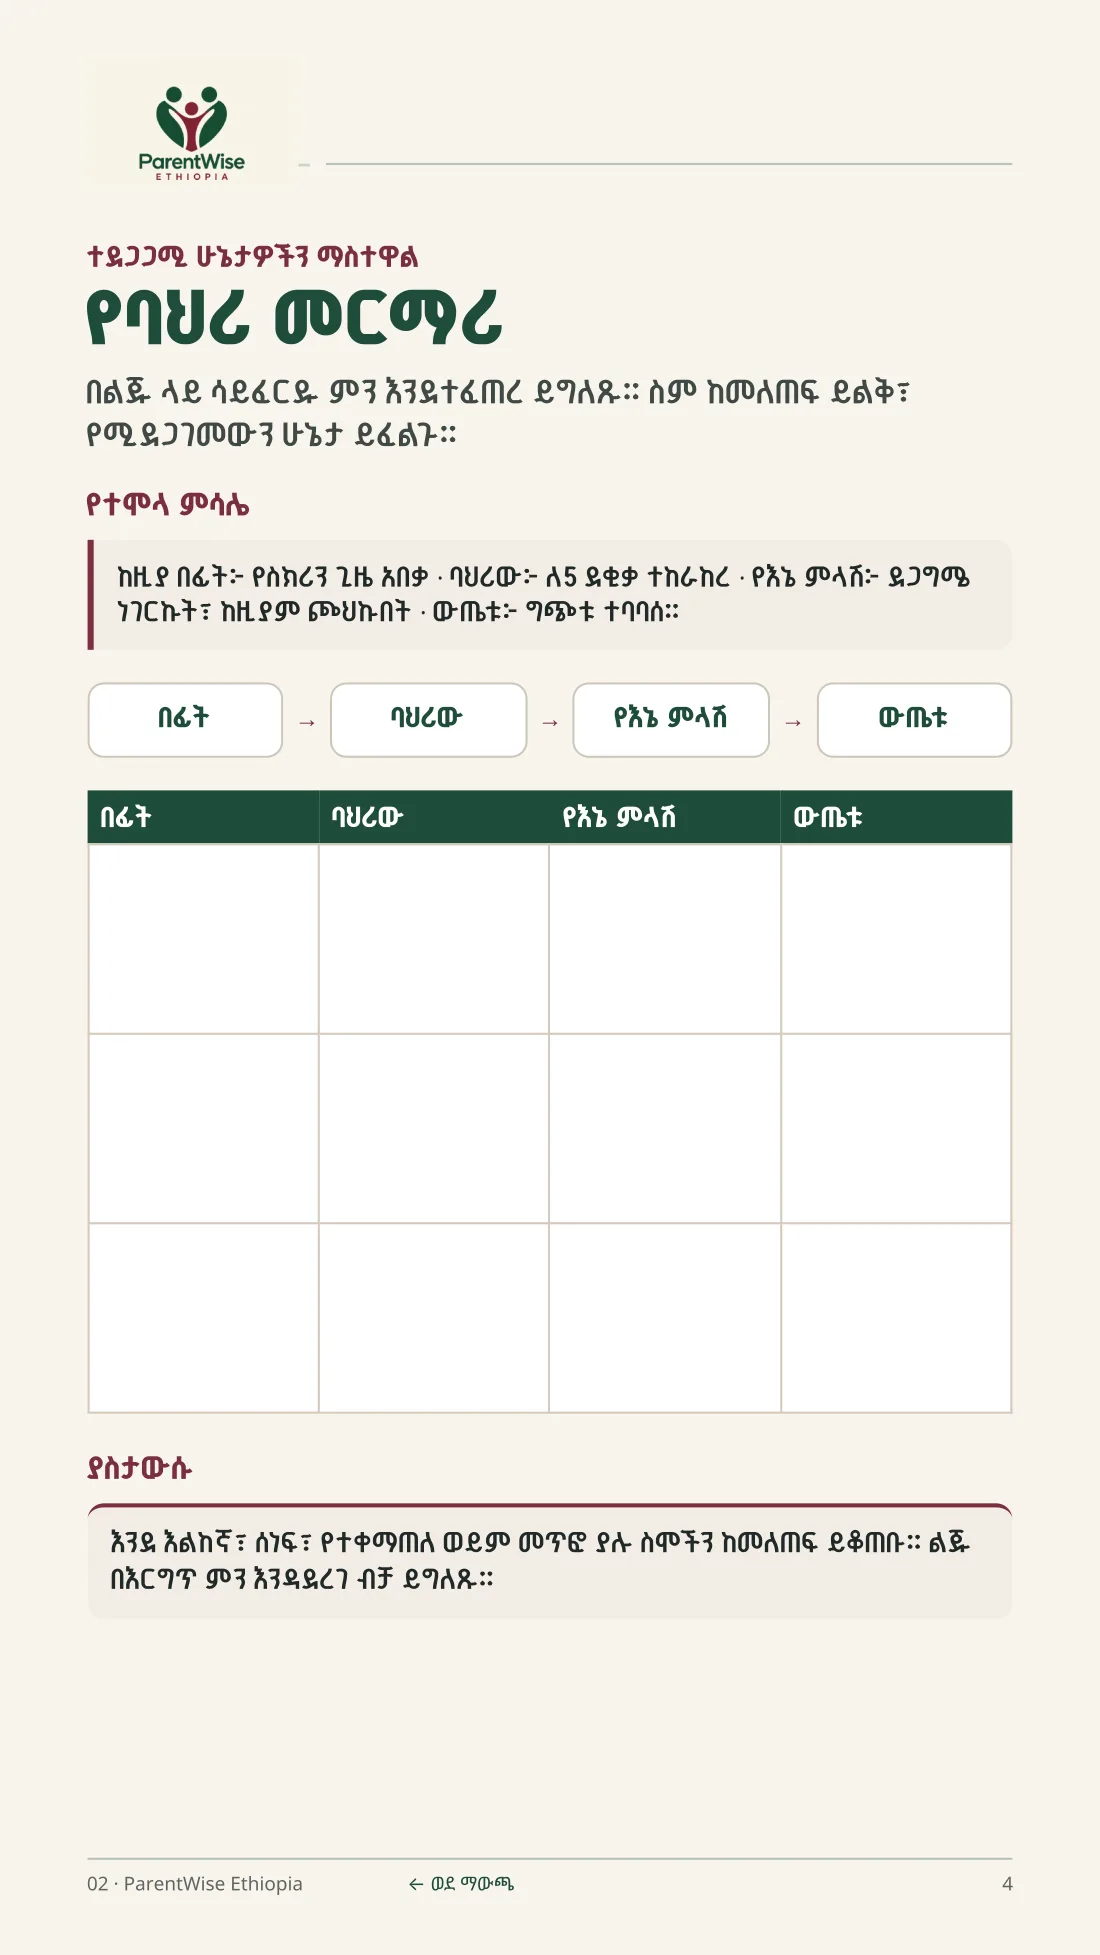
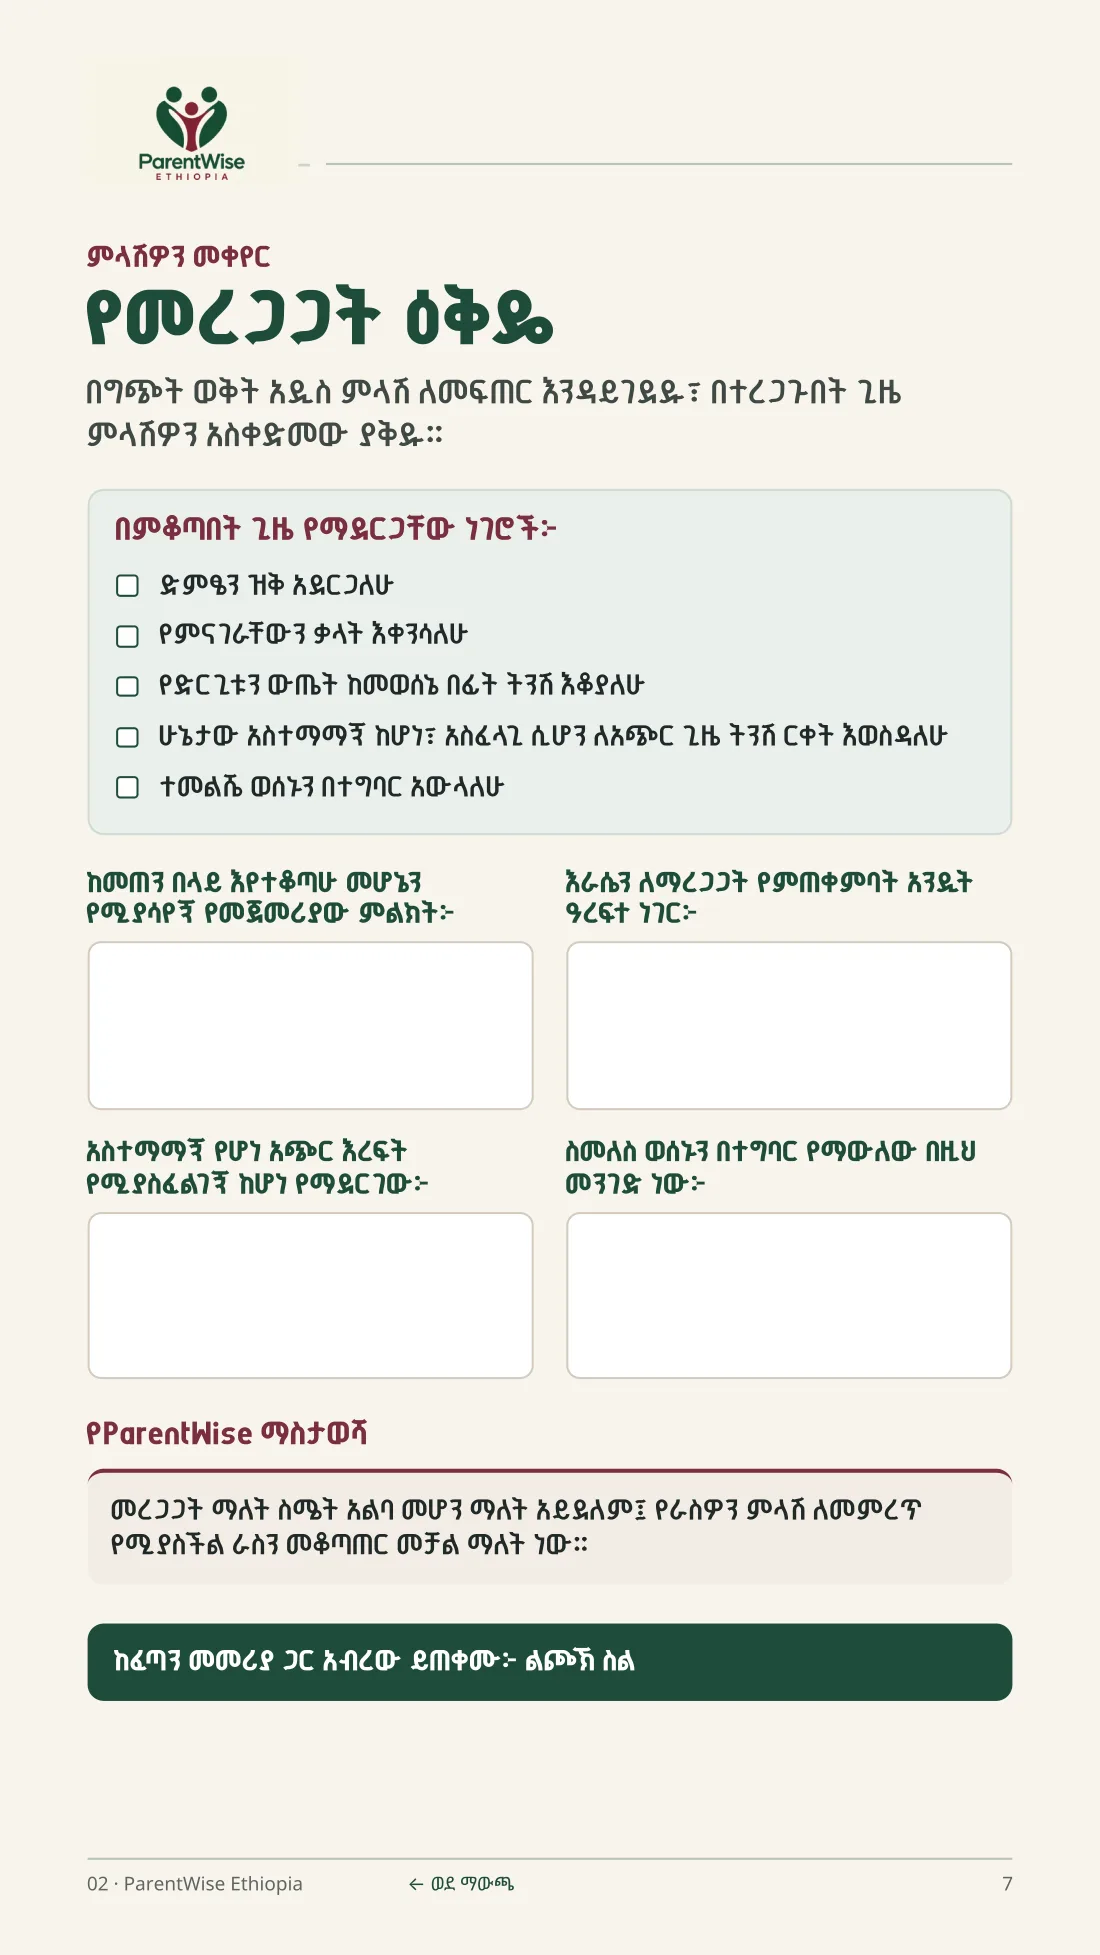
Swipeable full-screen viewer for all pages; reorder Workbook pages and tabs

diff --git a/site-preview/index.html b/site-preview/index.html
@@ -756,12 +756,12 @@ html.pw-js .pw-reveal.is-in{opacity:1;transform:none}
 <div class="pwm-closing"><span aria-hidden="true" class="pwm-closing-mark">✦</span><p>ዓላማው የዛሬን ችግር ማስቆም ብቻ ሳይሆን፣ ልጅዎ ቀስ በቀስ ጥሩ ልማዶችን እንዲያዳብር መርዳትም ነው።</p></div>
 </section><section class="section product-section" id="section-05"><header class="section-heading"><div class="section-kicker"><b>05</b><span></span></div><h2>ParentWise ከውስጥ ምን ይመስላል?</h2><p class="intro">ከመግዛትዎ በፊት የParentWise የተግባር ቅጾች፣ የንግግር ምሳሌዎችና የ30 ቀን እቅድ እንዴት እንደሚቀርቡ የሚያሳዩ የንድፍ ምሳሌዎችን ይመልከቱ።</p></header>
 <p class="pwa-hint">ከታች ያሉትን ትሮች ተጠቅመው PDFውን ይቀይሩ፤ ገጾቹን ለማየት ወደ ጎን ያንሸራትቱ።</p>
-<div class="pwa-tabs" role="tablist" aria-label="የParentWise ክፍሎች"><button type="button" role="tab" aria-selected="true" data-k="workbook">Workbook</button><button type="button" role="tab" aria-selected="false" data-k="quickhelp">Quick Help</button><button type="button" role="tab" aria-selected="false" data-k="30day">30-Day</button></div>
-<div class="pwa-phone"><div class="pwa-screen"><div class="pwa-track" id="pwaTrack" tabindex="0" aria-label="ናሙና ገጾች"><img src="assets/img/preview/workbook-1.webp" width="1100" height="1956" alt="የባህሪ መርማሪ ገጽ"><img src="assets/img/preview/workbook-2.webp" width="1100" height="1956" alt="የመረጋጋት ዕቅድ ገጽ" loading="lazy"><img src="assets/img/preview/workbook-3.webp" width="1100" height="1956" alt="ሳምንታዊ የባህሪ መከታተያ ገጽ" loading="lazy"></div></div></div>
-<div class="pwa-dots" id="pwaDots" aria-hidden="true"><i class="on"></i><i></i><i></i></div>
-<div class="pwa-info"><h3 id="pwaT">የባህሪ መርማሪና የመረጋጋት ዕቅድ</h3><p id="pwaD">ተደጋጋሚ ሁኔታን ይመዝግቡ፣ ሳምንታዊ መከታተያውን ይሙሉ፤ ቁጣ ሲነሳም ምን እንደሚያደርጉ አስቀድመው ያቅዱ።</p><button type="button" class="pwa-zoom" id="pwaZoom">ገጹን አስፍተው ይመልከቱ ⤢</button></div>
+<div class="pwa-tabs" role="tablist" aria-label="የParentWise ክፍሎች"><button type="button" role="tab" aria-selected="true" data-k="quickhelp">Quick Help</button><button type="button" role="tab" aria-selected="false" data-k="workbook">Workbook</button><button type="button" role="tab" aria-selected="false" data-k="30day">30-Day</button></div>
+<div class="pwa-phone"><div class="pwa-screen"><div class="pwa-track" id="pwaTrack" tabindex="0" aria-label="ናሙና ገጾች"><img src="assets/img/preview/quickhelp-1.webp" width="1100" height="1956" alt="ልጄ «እምቢ» ሲለኝ — ምን ማድረግ"><img src="assets/img/preview/quickhelp-2.webp" width="1100" height="1956" alt="ምን ማለትና ምን ማስወገድ" loading="lazy"></div></div></div>
+<div class="pwa-dots" id="pwaDots" aria-hidden="true"><i class="on"></i><i></i></div>
+<div class="pwa-info"><h3 id="pwaT">ልጄ «እምቢ» ሲለኝ</h3><p id="pwaD">ምን ማድረግ፣ ምን ማለትና ምን ማስወገድ እንዳለብዎት ደረጃ በደረጃ።</p><button type="button" class="pwa-zoom" id="pwaZoom">ገጹን አስፍተው ይመልከቱ ⤢</button></div>
 <p class="pwa-note">ከሙሉ ጥቅሉ የተወሰዱ ናሙና ገጾች</p></section>
-<div class="pwv-lb" id="pwv-lb" hidden role="dialog" aria-modal="true" aria-label="ናሙና ገጾች"><button type="button" class="pwv-x" aria-label="ዝጋ">×</button><button type="button" class="pwv-nav pwv-prev" aria-label="ቀዳሚ">‹</button><img alt="" id="pwv-img"><button type="button" class="pwv-nav pwv-next" aria-label="ቀጣይ">›</button><p class="pwv-cap" id="pwv-cap"></p></div><section class="section included-section" id="section-07"><header class="section-heading"><div class="section-kicker"><span></span></div><h2>በParentWise ምን ያገኛሉ?</h2><p class="intro">እርስ በርስ የሚደጋገፉ አምስት ክፍሎችን በአንድ ላይ ያገኛሉ።</p></header><div class="pw-tl" aria-label="በParentWise ምን ያገኛሉ?"><div class="pw-tl-row"><h3>START HERE</h3><p>ለልጅዎ ዕድሜና ለገጠምዎት ችግር ተገቢውን ክፍል የሚያሳይ መምሪያ።</p></div><div class="pw-tl-row"><h3>CORE GUIDE</h3><p>ስለ ባህሪ፣ ስሜትና የቤተሰብ ሕጎች 7 ዋና ትምህርቶች።</p></div><div class="pw-tl-row"><h3>ACTION WORKBOOK</h3><p>የባህሪ መከታተያ፣ የቤተሰብ ሕግና የልምምድ እቅድ ቅጾች።</p></div><div class="pw-tl-row"><h3>QUICK HELP &amp; PARENT SCRIPTS</h3><p>በአስቸጋሪ ጊዜ ምን ማለትና ማድረግ እንደሚችሉ የሚያሳዩ ምሳሌዎች።</p></div><div class="pw-tl-row"><h3>30-DAY PRACTICE PROGRAM</h3><p>የየቀኑ አጭር ልምምዶችና የ30 ቀን መከታተያ እቅድ።</p></div></div><p class="included-summary">አምስቱም ክፍሎች በ1,500 ብር ግዢ ውስጥ ተካትተዋል።</p><div class="included-purchase"><a style="display:none!important" class="cta" data-preview-flow="qa-only" href="order.html"><span>ParentWiseን በ1,500 ብር ያግኙ</span><svg aria-hidden="true" fill="none" height="22" stroke="currentColor" stroke-linecap="round" stroke-width="1.8" viewBox="0 0 24 24" width="22"><path d="M5 12h14m-7-7 7 7-7 7"></path></svg></a></div></section><section aria-labelledby="pw9-v2-title" class="pw9-v2" id="section-09"><div class="pw9-container">
+<div class="pwv-lb" id="pwv-lb" hidden role="dialog" aria-modal="true" aria-label="ናሙና ገጾች"><button type="button" class="pwv-x" aria-label="ዝጋ">×</button><div class="pwv-track" id="pwv-track" tabindex="0"></div><button type="button" class="pwv-nav pwv-prev" aria-label="ቀዳሚ ገጽ">‹</button><button type="button" class="pwv-nav pwv-next" aria-label="ቀጣይ ገጽ">›</button><p class="pwv-cap" id="pwv-cap"></p></div><section class="section included-section" id="section-07"><header class="section-heading"><div class="section-kicker"><span></span></div><h2>በParentWise ምን ያገኛሉ?</h2><p class="intro">እርስ በርስ የሚደጋገፉ አምስት ክፍሎችን በአንድ ላይ ያገኛሉ።</p></header><div class="pw-tl" aria-label="በParentWise ምን ያገኛሉ?"><div class="pw-tl-row"><h3>START HERE</h3><p>ለልጅዎ ዕድሜና ለገጠምዎት ችግር ተገቢውን ክፍል የሚያሳይ መምሪያ።</p></div><div class="pw-tl-row"><h3>CORE GUIDE</h3><p>ስለ ባህሪ፣ ስሜትና የቤተሰብ ሕጎች 7 ዋና ትምህርቶች።</p></div><div class="pw-tl-row"><h3>ACTION WORKBOOK</h3><p>የባህሪ መከታተያ፣ የቤተሰብ ሕግና የልምምድ እቅድ ቅጾች።</p></div><div class="pw-tl-row"><h3>QUICK HELP &amp; PARENT SCRIPTS</h3><p>በአስቸጋሪ ጊዜ ምን ማለትና ማድረግ እንደሚችሉ የሚያሳዩ ምሳሌዎች።</p></div><div class="pw-tl-row"><h3>30-DAY PRACTICE PROGRAM</h3><p>የየቀኑ አጭር ልምምዶችና የ30 ቀን መከታተያ እቅድ።</p></div></div><p class="included-summary">አምስቱም ክፍሎች በ1,500 ብር ግዢ ውስጥ ተካትተዋል።</p><div class="included-purchase"><a style="display:none!important" class="cta" data-preview-flow="qa-only" href="order.html"><span>ParentWiseን በ1,500 ብር ያግኙ</span><svg aria-hidden="true" fill="none" height="22" stroke="currentColor" stroke-linecap="round" stroke-width="1.8" viewBox="0 0 24 24" width="22"><path d="M5 12h14m-7-7 7 7-7 7"></path></svg></a></div></section><section aria-labelledby="pw9-v2-title" class="pw9-v2" id="section-09"><div class="pw9-container">
 <div class="pw9-eyebrow"><span class="pw9-section-number">08</span><span class="pw9-eyebrow-line"></span><span class="pw9-eyebrow-label">TRUST &amp; CREDIBILITY</span></div>
 <header class="pw9-intro"><h2 id="pw9-v2-title">በምርምር የተደገፈ፣ ለኢትዮጵያ ቤተሰቦች የተዘጋጀ።</h2><p>ParentWise ስለ ልጆች ባህሪና አስተዳደግ የተደረጉ ምርምሮችን በማጣቀስ የተዘጋጀ የወላጅነት ትምህርት ፕሮግራም ነው።</p></header>
 <div class="pw9-source-wall"><div class="pw9-heading-line"><span class="pw9-red-line"></span><h3><span class="pw9-index">01</span> የምርምር ምንጮች <span class="pw9-english">/ RESEARCH FOUNDATION</span></h3></div><p class="pw9-source-intro">ለParentWise ዝግጅት ከተጠቀምንባቸው ምንጮች መካከል የዓለም ጤና ድርጅት (WHO)፣ ዩኒሴፍ (UNICEF) እና CDC ያቀረቧቸው የልጆች አስተዳደግ መመሪያዎች ይገኙበታል።</p><div class="pw9-org-group"><div class="pw9-org-heading"><span>ዓለም አቀፍ የመመሪያ ምንጮች</span><small>GLOBAL GUIDANCE</small></div><div class="pw9-logo-grid"><a aria-label="WHO — የተያያዘ ምንጭ ይክፈቱ" class="pw9-org" href="https://www.who.int/publications/i/item/9789240065505" rel="noopener noreferrer" target="_blank"><img alt="WHO" decoding="async" loading="lazy" src="assets/img/page-17.png" width="334" height="106" /></a><a aria-label="UNICEF — የተያያዘ ምንጭ ይክፈቱ" class="pw9-org" href="https://www.unicef.org/asia-pacific/place-for-parents/positive-parenting" rel="noopener noreferrer" target="_blank"><img alt="UNICEF" decoding="async" loading="lazy" src="assets/img/page-18.png" width="257" height="67" /></a><a aria-label="CDC — የተያያዘ ምንጭ ይክፈቱ" class="pw9-org" href="https://www.cdc.gov/child-development/positive-parenting-tips/index.html" rel="noopener noreferrer" target="_blank"><img alt="CDC" decoding="async" loading="lazy" src="assets/img/page-19.png" width="181" height="105" /></a></div></div><div class="pw9-org-group"><div class="pw9-org-heading"><span>የምርምር ተቋማት</span><small>RESEARCH INSTITUTIONS</small></div><div class="pw9-logo-grid"><a aria-label="University of Oxford — የተያያዘ ምንጭ ይክፈቱ" class="pw9-org" href="https://www.spi.ox.ac.uk/parenting-for-lifelong-health-super-scale-up-of-parenting-evaluation-research-study" rel="noopener noreferrer" target="_blank"><img alt="University of Oxford" decoding="async" loading="lazy" src="assets/img/page-20.png" width="292" height="98" /></a><a aria-label="University of Cape Town — የተያያዘ ምንጭ ይክፈቱ" class="pw9-org" href="https://pmc.ncbi.nlm.nih.gov/articles/PMC7155004/" rel="noopener noreferrer" target="_blank"><img alt="University of Cape Town" decoding="async" loading="lazy" src="assets/img/page-21.png" width="346" height="107" /></a><a aria-label="Stellenbosch University — የተያያዘ ምንጭ ይክፈቱ" class="pw9-org" href="https://www.who.int/teams/social-determinants-of-health/parenting-for-lifelong-health" rel="noopener noreferrer" target="_blank"><img alt="Stellenbosch University" decoding="async" loading="lazy" src="assets/img/page-22.png" width="310" height="108" /></a></div></div><div class="pw9-org-group"><div class="pw9-org-heading"><span>የወላጅነት ፕሮግራሞች</span><small>PARENTING PROGRAMMES</small></div><div class="pw9-logo-grid"><a aria-label="Parenting for Lifelong Health — የተያያዘ ምንጭ ይክፈቱ" class="pw9-org" href="https://www.parentingforlifelonghealth.org/" rel="noopener noreferrer" target="_blank"><img alt="Parenting for Lifelong Health" decoding="async" loading="lazy" src="assets/img/page-23.png" width="362" height="105" /></a><a aria-label="Triple P — የተያያዘ ምንጭ ይክፈቱ" class="pw9-org" href="https://pfsc-evidence.psy.uq.edu.au/" rel="noopener noreferrer" target="_blank"><img alt="Triple P" decoding="async" loading="lazy" src="assets/img/page-24.png" width="297" height="88" /></a><a aria-label="The Incredible Years — የተያያዘ ምንጭ ይክፈቱ" class="pw9-org" href="https://www.incredibleyears.com/research" rel="noopener noreferrer" target="_blank"><img alt="The Incredible Years" decoding="async" loading="lazy" src="assets/img/page-25.png" width="374" height="90" /></a></div></div></div>
@@ -939,27 +939,31 @@ const menu=document.querySelector('.menu-toggle');const nav=document.querySelect
 @media(min-width:760px){#section-05 .pwa-phone{width:300px}#section-05 .pwa-tabs{max-width:420px;margin-inline:auto}}
 .pwv-lb{position:fixed;inset:0;z-index:2147483000;background:rgba(14,20,17,.96);display:flex;align-items:center;justify-content:center}
 .pwv-lb[hidden]{display:none}
-.pwv-lb img{max-width:92vw;max-height:84vh;border-radius:10px;background:#fff;object-fit:contain}
+.pwv-track{display:flex;width:100%;height:100%;overflow-x:auto;scroll-snap-type:x mandatory;scrollbar-width:none;-webkit-overflow-scrolling:touch}.pwv-track::-webkit-scrollbar{display:none}.pwv-slide{flex:0 0 100%;height:100%;display:flex;align-items:center;justify-content:center;scroll-snap-align:center;padding:60px 0 64px}.pwv-slide img{width:auto;height:auto;max-width:92vw;max-height:100%;border-radius:10px;object-fit:contain}
 .pwv-x,.pwv-nav{position:absolute;min-width:44px;min-height:44px;border:0;border-radius:50%;background:rgba(255,255,255,.16);color:#fff;font:400 28px/1 sans-serif;cursor:pointer}
 .pwv-x{top:12px;right:12px}.pwv-prev{left:6px}.pwv-next{right:6px}.pwv-nav{top:50%;transform:translateY(-50%)}
 .pwv-cap{position:absolute;bottom:18px;left:0;right:0;text-align:center;color:#fff;font:400 14px/1.3 ParentWiseEthiopic,sans-serif}
 @media(prefers-reduced-motion:reduce){#section-05 *{transition:none!important}}
 </style><script id="pw-preview-a-js">(function(){var tr=document.getElementById('pwaTrack');if(!tr)return;var lb=document.getElementById('pwv-lb');document.body.appendChild(lb);
-var img=document.getElementById('pwv-img'),cap=document.getElementById('pwv-cap'),dw=document.getElementById('pwaDots');
-var S={workbook:['የባህሪ መርማሪና የመረጋጋት ዕቅድ','ተደጋጋሚ ሁኔታን ይመዝግቡ፣ ሳምንታዊ መከታተያውን ይሙሉ፤ ቁጣ ሲነሳም ምን እንደሚያደርጉ አስቀድመው ያቅዱ።',['የባህሪ መርማሪ ገጽ','የመረጋጋት ዕቅድ ገጽ','ሳምንታዊ የባህሪ መከታተያ ገጽ']],quickhelp:['ልጄ «እምቢ» ሲለኝ','ምን ማድረግ፣ ምን ማለትና ምን ማስወገድ እንዳለብዎት ደረጃ በደረጃ።',['ልጄ «እምቢ» ሲለኝ — ምን ማድረግ','ምን ማለትና ምን ማስወገድ']],'30day':['የ30 ቀን ካርታዎ','በሳምንት የተከፋፈለ፣ በቀን 5–10 ደቂቃ የሚወስድ ልምምድ፤ መሻሻልዎንም ይከታተሉ።',['የ30 ቀን ካርታ','የሳምንት 1 የዕለት ልምምድ','የ30 ቀን የመሻሻል መከታተያ']]};
-var cur='workbook',i=0,op=null;
+var vt=document.getElementById('pwv-track'),cap=document.getElementById('pwv-cap'),dw=document.getElementById('pwaDots');
+var S={quickhelp:['ልጄ «እምቢ» ሲለኝ','ምን ማድረግ፣ ምን ማለትና ምን ማስወገድ እንዳለብዎት ደረጃ በደረጃ።',['ልጄ «እምቢ» ሲለኝ — ምን ማድረግ','ምን ማለትና ምን ማስወገድ']],workbook:['የመረጋጋት ዕቅድና የባህሪ መከታተያ','ቁጣ ሲነሳ ምን እንደሚያደርጉ አስቀድመው ያቅዱ፤ ተደጋጋሚ ሁኔታን ይመዝግቡ፣ ሳምንታዊ መከታተያውንም ይሙሉ።',['የመረጋጋት ዕቅድ ገጽ','ሳምንታዊ የባህሪ መከታተያ ገጽ','የባህሪ መርማሪ ገጽ']],'30day':['የ30 ቀን ካርታዎ','በሳምንት የተከፋፈለ፣ በቀን 5–10 ደቂቃ የሚወስድ ልምምድ፤ መሻሻልዎንም ይከታተሉ።',['የ30 ቀን ካርታ','የሳምንት 1 የዕለት ልምምድ','የ30 ቀን የመሻሻል መከታተያ']]};
+var cur='quickhelp',op=null;
 function cs(){return Math.round(tr.scrollLeft/tr.clientWidth)}
 function dots(n){dw.innerHTML=new Array(S[cur][2].length+1).join('<i></i>');dw.children[n||0].className='on'}
 tr.addEventListener('scroll',function(){var n=cs();[].forEach.call(dw.children,function(d,k){d.className=k===n?'on':''})},{passive:true});
 document.querySelectorAll('.pwa-tabs button').forEach(function(b){b.addEventListener('click',function(){document.querySelectorAll('.pwa-tabs button').forEach(function(x){x.setAttribute('aria-selected',x===b)});cur=b.dataset.k;var d=S[cur];
 tr.innerHTML=d[2].map(function(t,k){return '<img src="assets/img/preview/'+cur+'-'+(k+1)+'.webp" width="1100" height="1956" alt="'+t+'">'}).join('');tr.scrollLeft=0;
 document.getElementById('pwaT').textContent=d[0];document.getElementById('pwaD').textContent=d[1];dots(0)});});
-function show(){var n=S[cur][2].length;img.src='assets/img/preview/'+cur+'-'+(i+1)+'.webp';img.alt=S[cur][2][i];cap.textContent=(i+1)+' / '+n+' · '+S[cur][2][i]}
-function step(d){var n=S[cur][2].length;i=(i+d+n)%n;show()}
-function open(b){i=cs();op=b;show();lb.hidden=false;document.body.style.overflow='hidden';lb.querySelector('.pwv-x').focus()}
+function vs(){return Math.round(vt.scrollLeft/vt.clientWidth)}
+function label(){var n=vs(),t=S[cur][2];cap.textContent=(n+1)+' / '+t.length+' · '+t[n]}
+vt.addEventListener('scroll',label,{passive:true});
+function go(d){var n=Math.max(0,Math.min(S[cur][2].length-1,vs()+d));vt.scrollTo({left:n*vt.clientWidth,behavior:'smooth'})}
+function open(b){var t=S[cur][2],start=cs();op=b;
+vt.innerHTML=t.map(function(x,k){return '<div class="pwv-slide"><img src="assets/img/preview/'+cur+'-'+(k+1)+'.webp" alt="'+x+'"></div>'}).join('');
+lb.hidden=false;document.body.style.overflow='hidden';vt.scrollLeft=start*vt.clientWidth;label();lb.querySelector('.pwv-x').focus()}
 function close(){lb.hidden=true;document.body.style.overflow='';if(op)op.focus()}
 document.getElementById('pwaZoom').addEventListener('click',function(){open(this)});
 tr.addEventListener('click',function(){open(tr)});
-lb.querySelector('.pwv-x').onclick=close;lb.querySelector('.pwv-next').onclick=function(){step(1)};lb.querySelector('.pwv-prev').onclick=function(){step(-1)};
-lb.addEventListener('click',function(e){if(e.target===lb)close()});
-document.addEventListener('keydown',function(e){if(lb.hidden)return;if(e.key==='Escape')close();if(e.key==='ArrowRight')step(1);if(e.key==='ArrowLeft')step(-1)});})();</script></body></html>
+lb.querySelector('.pwv-x').onclick=close;lb.querySelector('.pwv-next').onclick=function(){go(1)};lb.querySelector('.pwv-prev').onclick=function(){go(-1)};
+lb.addEventListener('click',function(e){if(e.target===lb||e.target.classList.contains('pwv-slide'))close()});
+document.addEventListener('keydown',function(e){if(lb.hidden)return;if(e.key==='Escape')close();if(e.key==='ArrowRight')go(1);if(e.key==='ArrowLeft')go(-1)});})();</script></body></html>
